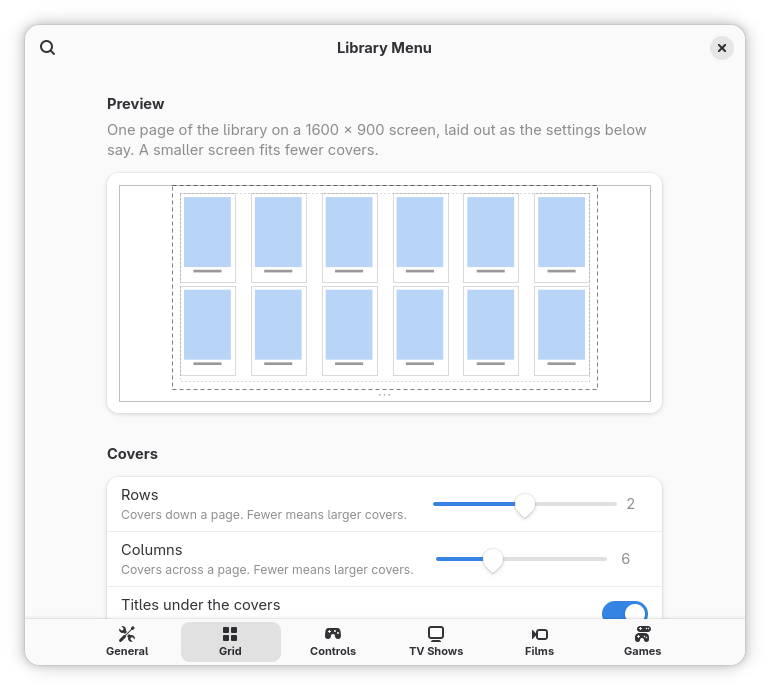
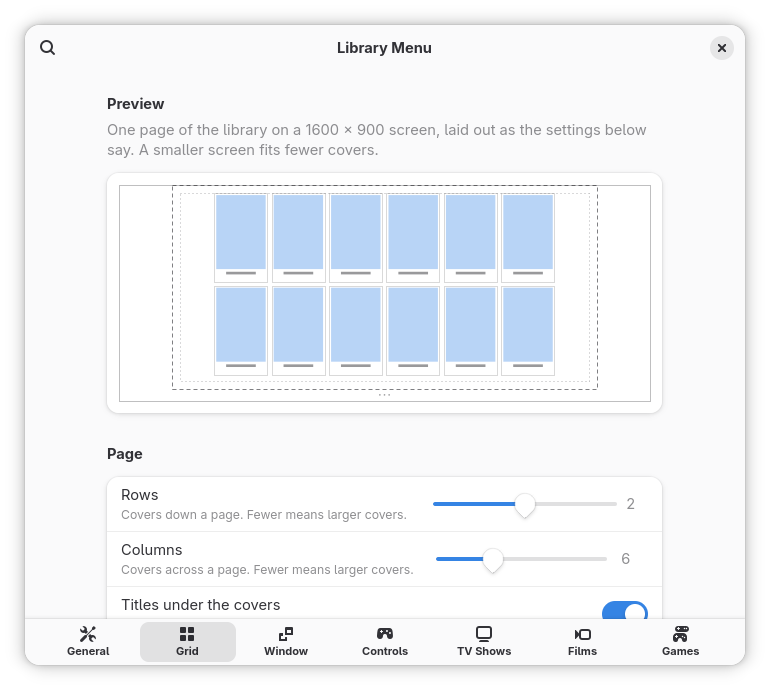
A Posters group in the preferences: the corner radius moved there, and the padding around a cover (#140)
tile-padding is the tile each cover sits in, the theme's 6 px to begin with,
set inline with a radius concentric with the art's; the theme's margin and
bottom padding are zeroed, so 0 of it and of the spacing puts covers edge to
edge. The grid's sums and the preview take it in place of a fixed 24.

Fixes #138

diff --git a/src/prefs.js b/src/prefs.js
@@ -8,7 +8,7 @@ import Pango from 'gi://Pango';
 
 import {SECTIONS as LIBRARY_SECTIONS, openCommandKey, readSections} from './lib/library.js';
 import {ACTIONS, NATIVE_KEYS, padLabel} from './lib/actions.js';
-import {ARROWS_SHARE, DOTS_HEIGHT, GRID_KEYS, TILE_PADDING, gridFor, placeGrid, readGridStyle} from './lib/gridMath.js';
+import {ARROWS_SHARE, DOTS_HEIGHT, GRID_KEYS, gridFor, placeGrid, readGridStyle} from './lib/gridMath.js';
 
 // A credential's `fields` are tab-joined in one slot of the `credentials` setting;
 // a field's Import reads the file the user picks, offering <field.file> from the
@@ -184,8 +184,8 @@ function gridPreview(settings) {
         stroke(px + style.padX * k, oy + style.padY * k,
             (pageWidth - 2 * style.padX) * k, (pageHeight - 2 * style.padY) * k, 0.3, [1, 3]);
 
-        const coverW = (fit.cellW - TILE_PADDING) * k;
-        const inset = TILE_PADDING / 2 * k;
+        const coverW = (fit.cellW - 2 * style.tilePad) * k;
+        const inset = style.tilePad * k;
         for (let r = 0; r < fit.rows; r++) {
             for (let c = 0; c < fit.columns; c++) {
                 const x = px + (left + c * (fit.cellW + gapX)) * k;
@@ -325,11 +325,9 @@ export default class LibraryPreferences extends ExtensionPreferences {
 
         const appearance = new Adw.PreferencesGroup({
             title: 'Appearance',
-            description: 'The grid has the Grid page, and the pop-up a pick opens the Window page.',
+            description: 'The covers have the Grid page, and the pop-up a pick opens the Window page.',
         });
         page.add(appearance);
-        appearance.add(row('Corner radius', 'How rounded covers, tiles and the detail pane are, in pixels. 0 is square.',
-            slider(settings, 'corner-radius', 0, 40)));
         const accent = new Adw.ActionRow({
             title: 'Accent colour',
             subtitle: 'Follows Settings → Appearance → Accent Color',
@@ -370,7 +368,7 @@ export default class LibraryPreferences extends ExtensionPreferences {
         page.add(preview);
         preview.add(gridPreview(settings));
 
-        const covers = new Adw.PreferencesGroup({title: 'Covers'});
+        const covers = new Adw.PreferencesGroup({title: 'Page'});
         page.add(covers);
         covers.add(row('Rows', 'Covers down a page. Fewer means larger covers.', slider(settings, 'rows', 1, 3)));
         covers.add(row('Columns', 'Covers across a page. Fewer means larger covers.', slider(settings, 'columns', 4, 10)));
@@ -382,6 +380,13 @@ export default class LibraryPreferences extends ExtensionPreferences {
         covers.add(titles);
         covers.add(row('Align covers', 'Where a row that is not full sits',
             toggles(settings, 'grid-align', [['center', 'Centre'], ['start', 'Left']])));
+
+        const posters = new Adw.PreferencesGroup({title: 'Posters'});
+        page.add(posters);
+        posters.add(row('Corner radius', 'How rounded the covers are, in pixels; their tiles, the pop-up and its rows follow. 0 is square.',
+            slider(settings, 'corner-radius', 0, 40)));
+        posters.add(row('Padding', 'The tile around a cover, lit under the pointer, in pixels. 0, with no spacing, puts covers edge to edge.',
+            slider(settings, 'tile-padding', 0, 24)));
 
         const spacing = new Adw.PreferencesGroup({
             title: 'Spacing',

diff --git a/src/lib/gridMath.js b/src/lib/gridMath.js
@@ -3,9 +3,8 @@
 
 // Logical pixels, as the theme writes them.
 const MIN_ART = 96;
-// An overview-tile's padding, and with its label beneath the artwork.
-export const TILE_PADDING = 24;
-const TILE_CHROME = 56;
+// Beneath the artwork with its label: the tile's spacing and a line of text.
+const LABEL_CHROME = 32;
 // Room for a hovered title in the bottom row to wrap to a second line.
 const TITLE_LINE = 20;
 // The shell's PAGE_PREVIEW_RATIO each side, for the page arrows.
@@ -13,7 +12,7 @@ export const ARROWS_SHARE = 0.2;
 export const DOTS_HEIGHT = 36;
 
 export const GRID_KEYS = [
-    'columns', 'rows', 'tile-spacing-horizontal', 'tile-spacing-vertical',
+    'columns', 'rows', 'tile-padding', 'tile-spacing-horizontal', 'tile-spacing-vertical',
     'grid-padding-horizontal', 'grid-padding-vertical', 'show-titles', 'grid-align',
 ];
 
@@ -21,6 +20,7 @@ export function readGridStyle(settings) {
     return {
         columns: settings.get_int('columns'),
         rows: settings.get_int('rows'),
+        tilePad: settings.get_int('tile-padding'),
         gapX: settings.get_int('tile-spacing-horizontal'),
         gapY: settings.get_int('tile-spacing-vertical'),
         padX: settings.get_int('grid-padding-horizontal'),
@@ -35,8 +35,8 @@ export function readGridStyle(settings) {
 export function gridFor({width, height, aspect, scale, style}) {
     const gapX = style.gapX * scale;
     const gapY = style.gapY * scale;
-    const pad = TILE_PADDING * scale;
-    const chrome = (style.titles ? TILE_CHROME : TILE_PADDING) * scale;
+    const pad = 2 * style.tilePad * scale;
+    const chrome = pad + (style.titles ? LABEL_CHROME : 0) * scale;
     const titleLine = (style.titles ? TITLE_LINE : 0) * scale;
     const minArt = MIN_ART * scale;
 

diff --git a/src/lib/mediaGrid.js b/src/lib/mediaGrid.js
@@ -11,6 +11,7 @@ import * as IconGrid from 'resource:///org/gnome/shell/ui/iconGrid.js';
 import {handleBoundKey} from './controls.js';
 import {gridFor, placeGrid} from './gridMath.js';
 import {createArtwork} from './widgets.js';
+import {tileStyle} from './shape.js';
 
 // Not exported by the shell, but it is what AppDisplay extends.
 const BaseAppView = Object.getPrototypeOf(AppDisplay.AppDisplay);
@@ -119,7 +120,8 @@ class LibraryPosterIcon extends IconGrid.BaseIcon {
 const MediaItem = GObject.registerClass(
 class LibraryMediaItem extends AppDisplay.AppViewItem {
     _init({item, section, order, onActivate}) {
-        super._init({style_class: 'overview-tile'}, false, style.titles);
+        // The theme's margin and bottom padding would come between the cells past the spacing.
+        super._init({style_class: 'overview-tile', style: 'margin: 0; padding: 0;'}, false, style.titles);
         this._id = `${section.key}/${item.id}`;
         this._name = item.title;
         this.item = item;
@@ -136,6 +138,7 @@ class LibraryMediaItem extends AppDisplay.AppViewItem {
                 height: size,
             }),
         });
+        this.icon.set_style(tileStyle(style.tilePad));
         this.set_child(this.icon);
         this.connect('clicked', () => onActivate(section.key, item, this));
     }

diff --git a/src/lib/shape.js b/src/lib/shape.js
@@ -17,9 +17,10 @@ const PART = {
 };
 
 let styles = {};
+let base = DEFAULT_RADIUS;
 
 export function setCornerRadius(px) {
-    const base = Math.max(0, Math.min(MAX, Math.round(px) || 0));
+    base = Math.max(0, Math.min(MAX, Math.round(px) || 0));
     styles = {};
     for (const [part, scale] of Object.entries(PART))
         styles[part] = `border-radius: ${scale(base)}px;`;
@@ -28,4 +29,9 @@ setCornerRadius(DEFAULT_RADIUS);
 
 export function radiusStyle(part = 'art') {
     return styles[part];
+}
+
+// The tile around a poster: its padding, and the radius concentric with the art's.
+export function tileStyle(padding) {
+    return `padding: ${padding}px; border-radius: ${base + padding}px;`;
 }

diff --git a/README.md b/README.md
@@ -157,14 +157,15 @@ button.
 
 <table>
   <tr>
-    <td width="50%"><img src="docs/screenshots/prefs-general.png" alt="The General page: the buttons on the desktop switch, playing on a new workspace, the Dash to Panel switch, the keyboard shortcut, and the corner radius slider"></td>
+    <td width="50%"><img src="docs/screenshots/prefs-general.png" alt="The General page: the buttons on the desktop switch, playing on a new workspace, the Dash to Panel switch, the keyboard shortcut and the accent colour row"></td>
     <td width="50%"><img src="docs/screenshots/prefs-grid.png" alt="The Grid page: a wireframe preview of one page of covers, six across and two down, over the rows and columns sliders and the titles switch"></td>
   </tr>
   <tr>
     <td valign="top"><b>General</b>: the buttons on the desktop (off to begin with),
-    playing on a new workspace, the button in Dash to Panel's panel (off to begin with), the keyboard shortcut (none to begin with), the corner radius, watched marks, and Rescan everything.</td>
+    playing on a new workspace, the button in Dash to Panel's panel (off to begin with), the keyboard shortcut (none to begin with), watched marks, and Rescan everything.</td>
     <td valign="top"><b>Grid</b>: rows and columns, titles under the covers, the
-    space between covers and the grid's padding, with a preview that follows them.</td>
+    covers' corner radius and the padding around each, the space between covers and
+    the grid's padding, with a preview that follows them.</td>
   </tr>
   <tr>
     <td width="50%"><img src="docs/screenshots/prefs-tv-shows.png" alt="The TV Shows page: the switch for the TV Shows tab, no folder yet, and the information sources tried in order: TVmaze, TMDB and Wikipedia"></td>

diff --git a/.claude/rules/layout.md b/.claude/rules/layout.md
@@ -14,7 +14,7 @@ paths:
 
 - **The grid's arithmetic is `gridMath.js`**, which imports nothing of the shell so
   the preferences' preview (`prefs.js` `gridPreview`) lays a page out by the same
-  sums over a nominal 1600 × 900 slot. `readGridStyle` reads the eight grid keys
+  sums over a nominal 1600 × 900 slot. `readGridStyle` reads the nine grid keys
   once; `app.js` hands them to `mediaGrid.js` `setGridStyle`, read as a grid is built
   and as it allocates.
 - **`columns` and `rows` are the grid's shape**, each capped by what fits at
@@ -23,8 +23,9 @@ paths:
   the page less `grid-padding-*`; with `show-titles` off the label's share of a cell
   goes to the cover.
 - **The spacing settings are what the covers get** (`tile-spacing-*`): `placeGrid`
-  lays the cells that far apart, past the tile's own `TILE_PADDING`, and centres the
-  block in what the padding leaves; nothing spreads them wider, so a height-limited
+  lays the cells that far apart, past the tile's own `tile-padding` (the theme's margin
+  and bottom padding are zeroed inline, so 0 of each puts covers edge to edge), and
+  centres the block in what the padding leaves; nothing spreads them wider, so a height-limited
   page has margins at its sides, as the preview shows. `grid-align` only decides
   whether a part-full row is centred under the full ones or hugs the leading edge.
 - **The page dots keep their room on a one-page section**: the shell hides them, but the

diff --git a/CLAUDE.md b/CLAUDE.md
@@ -120,7 +120,8 @@ controllers are the keyboard too: `.claude/rules/keyboard.md`.
   `9999px`. The exception is `paneInner`, the pop-up pane inside the folder's frame:
   the outer radius less `PANE_INSET`, so the curves are concentric.
 - **One set of style settings**: the grid's (`gridMath.js` `GRID_KEYS`: `columns`
-  4–10, `rows` 1–3, the spacing and padding pairs, `show-titles`, `grid-align`),
+  4–10, `rows` 1–3, `tile-padding`, the spacing and padding pairs, `show-titles`,
+  `grid-align`),
   `corner-radius`, the pop-up's (`detail-width` and `detail-height`, 60–120 %, its
   share of the work area, applied in `detailDialog.js` `_budget()`,
   `detail-row-size`, the list's row height, which `widgets.js` `createRow` scales
